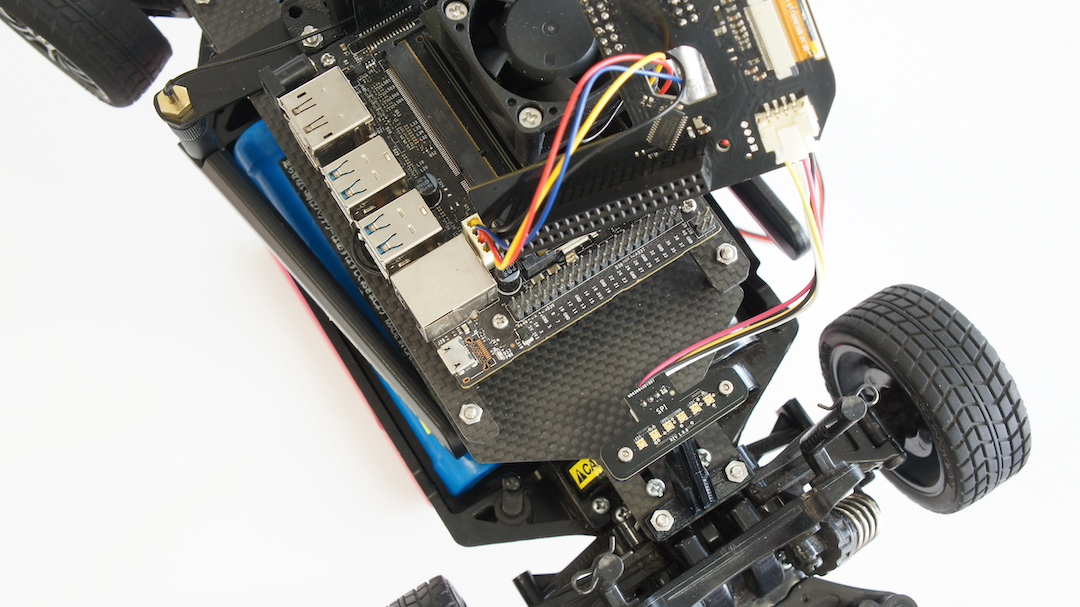
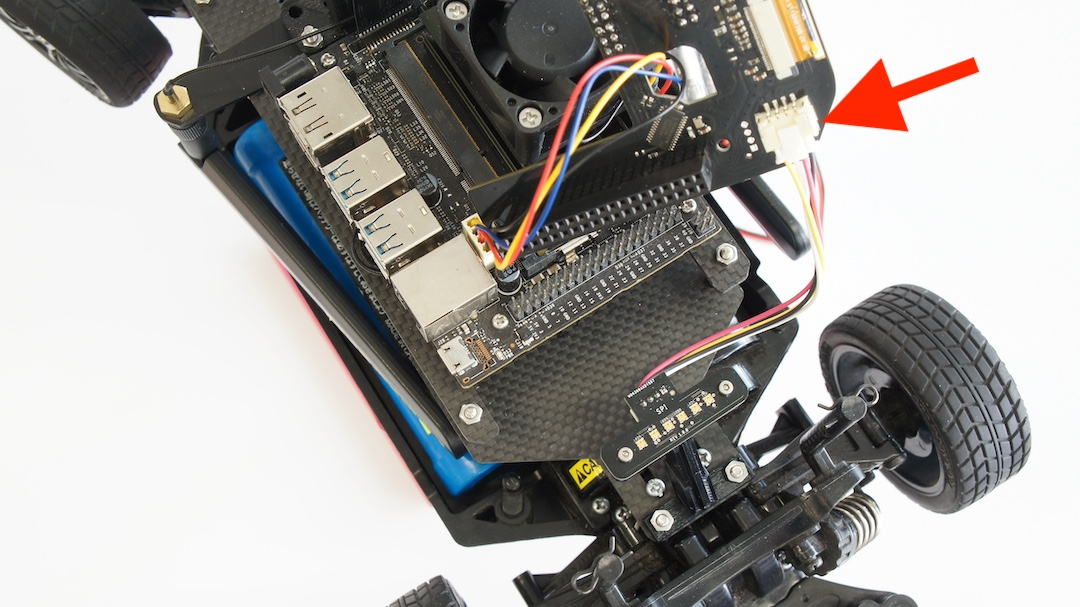
Deployed 99f9de61 with MkDocs version: 1.4.3

Changed region(s): [[0.7639, 0.089, 0.9167, 0.2372]]

diff --git a/parts/01.jr612030002/index.html b/parts/01.jr612030002/index.html
@@ -1584,11 +1584,15 @@
 <p><img alt="" src="../img/xiaoRemove.jpg" /></p>
 <h2 id="_2">コントロールボード接続例</h2>
 <p>JetsonおよびRCカーの電源を停止して、以下のように接続します。</p>
-<p>Jetson Nanoのファンコネクタをコントロールボードに予め通しておきます。</p>
+<p>Jetson Nanoのファンコネクタをコントロールボードに予め通しておきます。ケーブルを通したらFANのコネクタをJetson Nanoに刺します。</p>
 <p><img alt="" src="../img/connetting001.jpg" /></p>
+<div class="admonition cation">
+<p class="admonition-title">ファンケーブル</p>
+<p>対象はJetson Nano開発者キットのみとなります。</p>
+</div>
 <p>フルカラーLEDを付属、お持ちの方は、４ピンケーブルをコントロール基板に接続しておきます。</p>
 <p><img alt="" src="../img/connetting002.jpg" /></p>
-<p>コントロール基板をJetsonの４０ピンヘッダーに接続します。ズレがないことを確認し、奥までしっかり接続します。</p>
+<p>コントロール基板をJetsonの４０ピンヘッダーに接続します。前後、左右ともにズレがないことを確認し、奥までしっかり接続します。</p>
 <p><img alt="" src="../img/connetting003.jpg" /></p>
 <p>受信機を確認します。車体前方から1ch,2ch,3ch(B)になります。写真の方向の場合は、車体外側が黒（GND）、車体内側が白（信号線）</p>
 <p><img alt="" src="../img/connetting004.jpg" /></p>
@@ -1596,7 +1600,7 @@
 <p><img alt="" src="../img/ESC.jpg" /></p>
 <p>受信機と３ピンとを繋ぐ、ケーブルが必要となります。</p>
 <p><img alt="" src="../img/connetting005.jpg" /></p>
-<p>極性を間違いなく接続します。白　SIGNAL、赤　VCC、黒　GND ※弊社３ピンコネクタの場合</p>
+<p>受信機にコネクタを刺し極性を間違いなく接続します。白　SIGNAL、赤　VCC、黒　GND ※弊社３ピンコネクタの場合</p>
 <p><img alt="" src="../img/connetting006.png" /></p>
 <p>サーボからの３ピンのケーブルはSTへ接続、ESCからの３ピンのケーブルはTHに接続します。極性を間違えなく接続します。※極性に関してはそれぞれご使用のサーボまたはESC説明書をご確認ください。</p>
 <p><img alt="" src="../img/connetting007.jpg" /></p>
